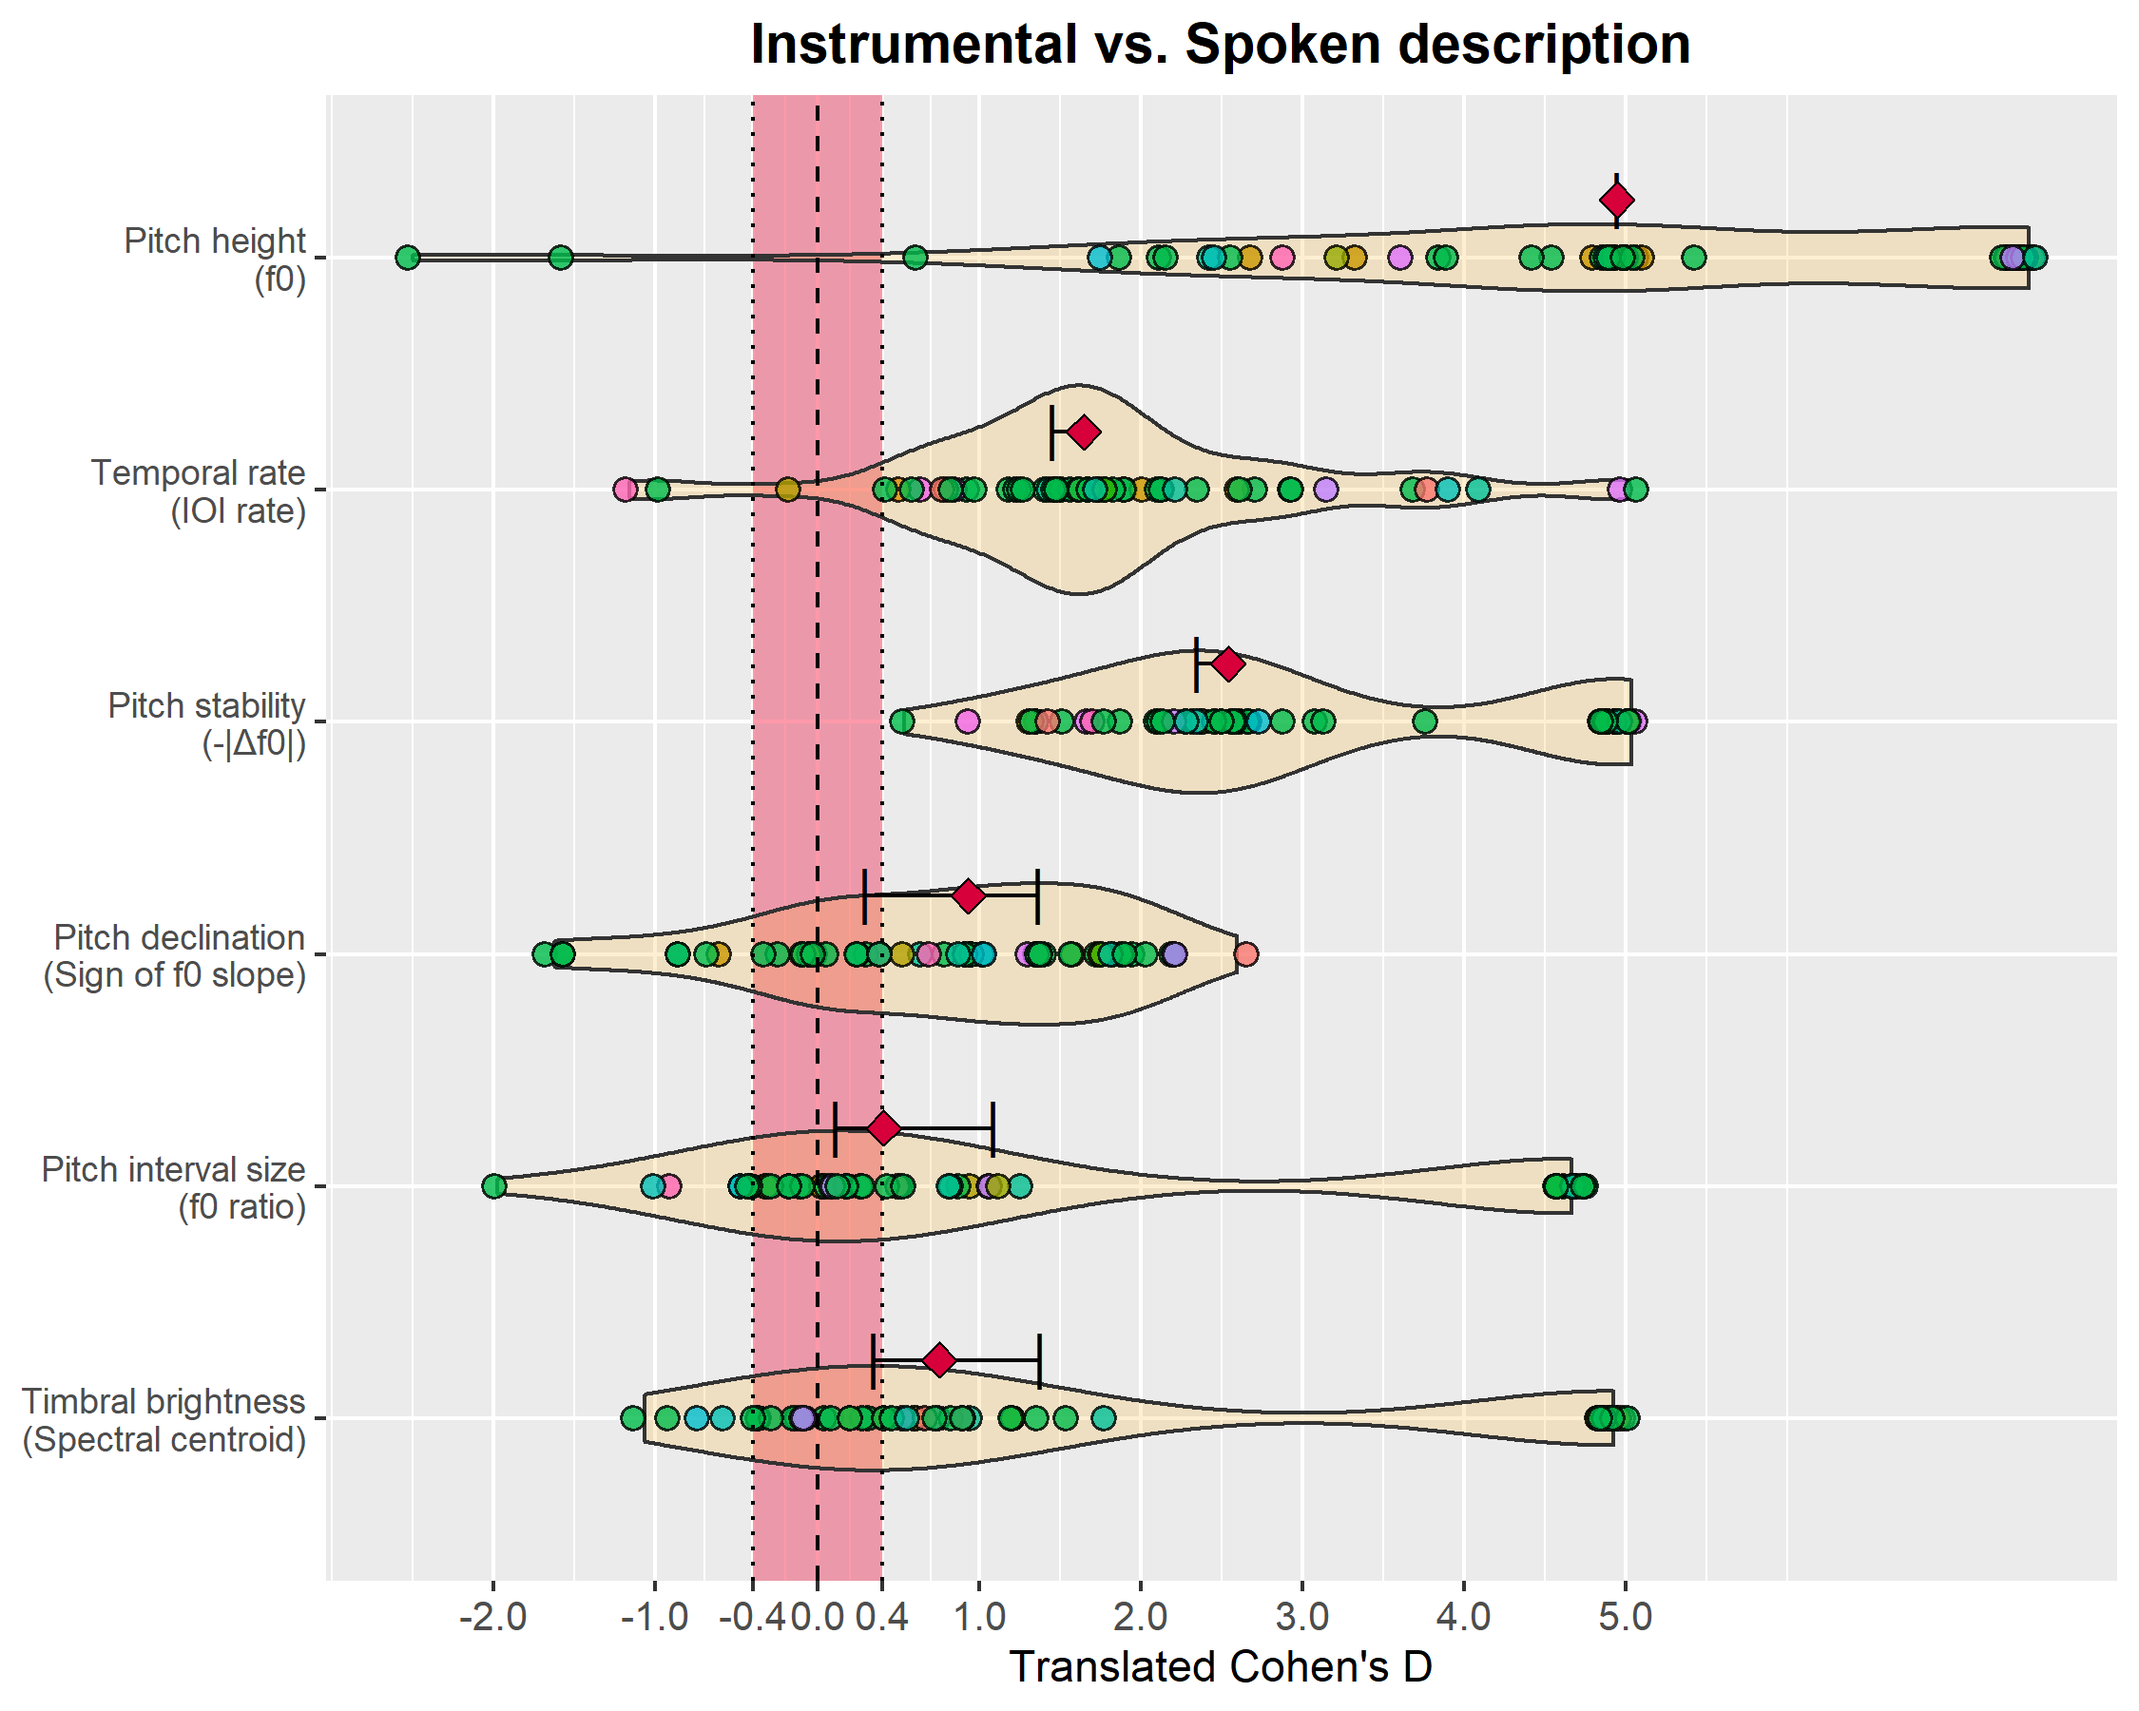
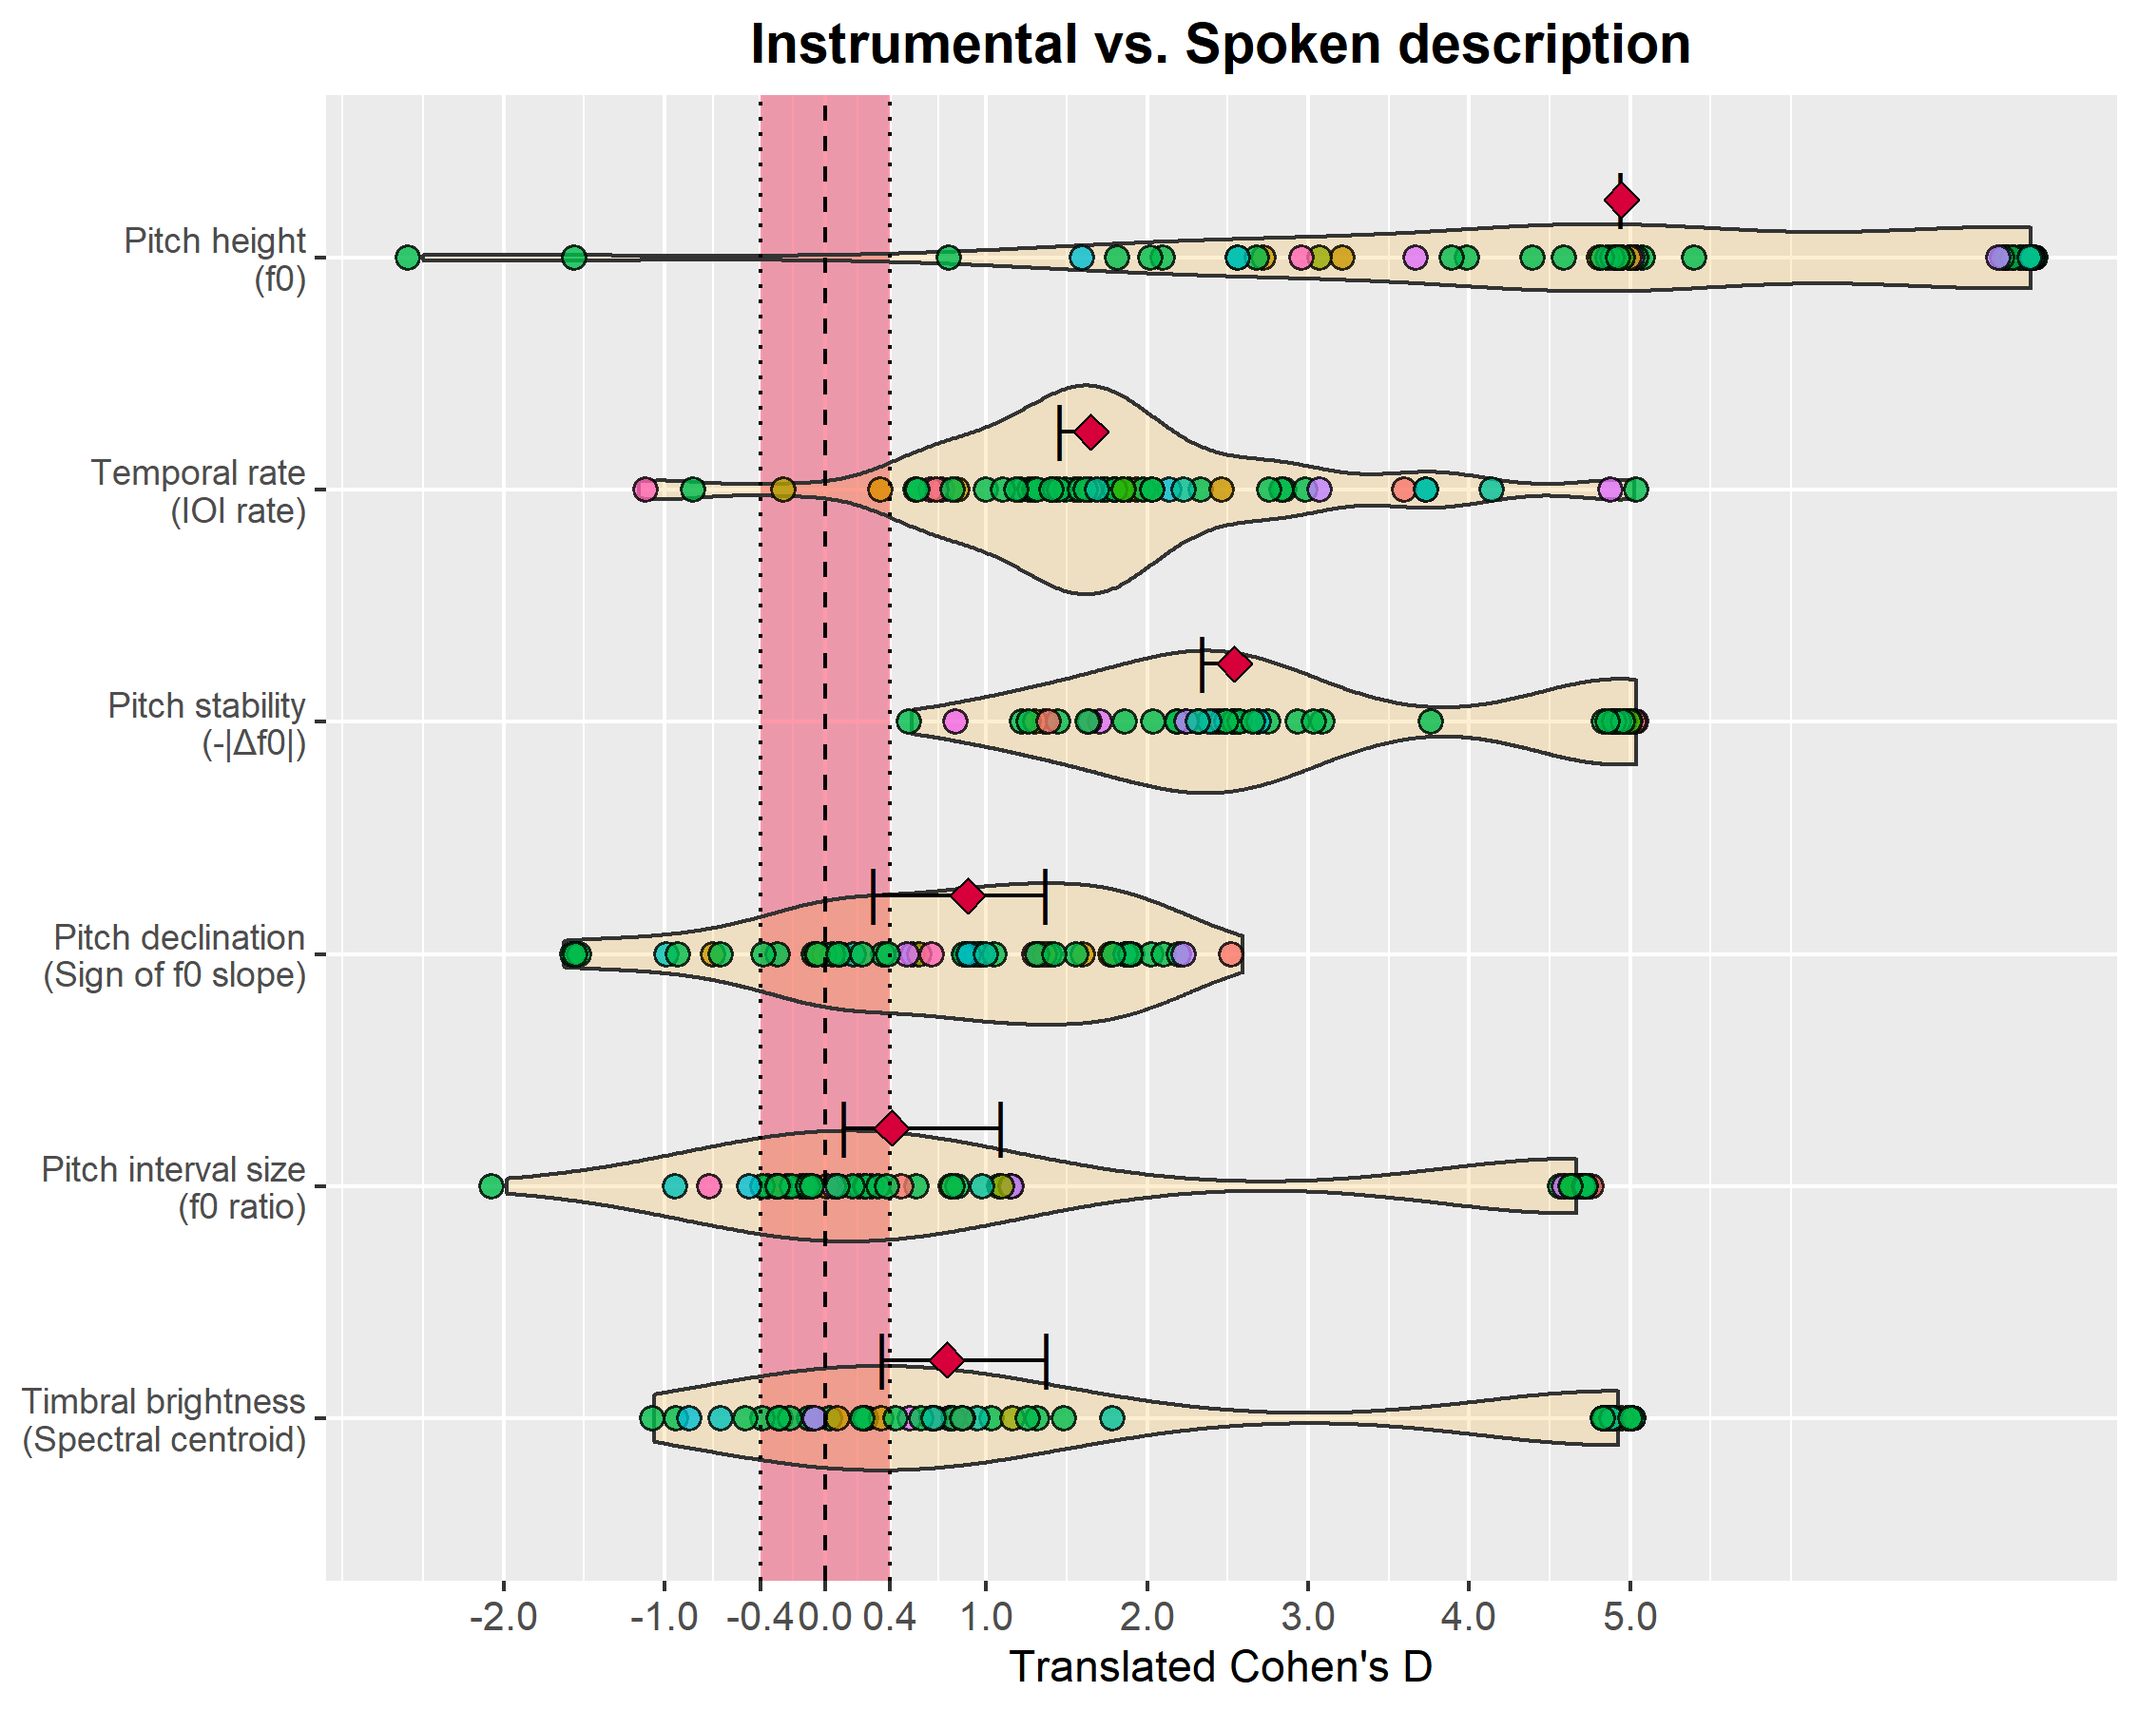
Add existing file

diff --git a/run_all.m b/run_all.m
@@ -11,32 +11,44 @@ typeid = 'song-desc';
 datainfofile = './datainfo.csv';
 al = 0.05/6;
 blindedonly = false;
+continuitycorrection = false;
 
-local_main(datainfofile, duration, typeflag_songdesc, typeid, exploratory, al, outputdir_analysis, outputdir_fig, blindedonly);
 analysis_rawdatastat(datainfofile, outputdir_analysis, duration);
+local_main(datainfofile, duration, typeflag_songdesc, typeid, exploratory, al, outputdir_analysis, outputdir_fig, blindedonly, continuitycorrection);
+
+%% Exploratory - zero cell correction
+outputdir_analysis = './output/analysis/Stage2/continuity/';
+continuitycorrection = true;
+
+local_main(datainfofile, duration, typeflag_songdesc, typeid, exploratory, al, outputdir_analysis, outputdir_fig, blindedonly, continuitycorrection);
 
 %% Exploratory - other combinations
+outputdir_analysis = './output/analysis/Stage2/';
+continuitycorrection = false;
+
 typeflag_instdesc = 2;
 typeid = 'inst-desc';
-local_main(datainfofile, duration, typeflag_instdesc, typeid, exploratory, al, outputdir_analysis, outputdir_fig, blindedonly);
+local_main(datainfofile, duration, typeflag_instdesc, typeid, exploratory, al, outputdir_analysis, outputdir_fig, blindedonly, continuitycorrection);
 
 typeflag_songrect = 3;
 typeid = 'song-recit';
-local_main(datainfofile, duration, typeflag_songrect, typeid, exploratory, al, outputdir_analysis, outputdir_fig, blindedonly);
+local_main(datainfofile, duration, typeflag_songrect, typeid, exploratory, al, outputdir_analysis, outputdir_fig, blindedonly, continuitycorrection);
 
 %% Exploratory - 30 seconds
 typeflag_songdesc = 1;
 typeid = 'song-desc';
 duration = 30;
-local_main(datainfofile, duration, typeflag_songdesc, typeid, exploratory, al, outputdir_analysis, outputdir_fig, blindedonly);
+local_main(datainfofile, duration, typeflag_songdesc, typeid, exploratory, al, outputdir_analysis, outputdir_fig, blindedonly, continuitycorrection);
+analysis_rawdatastat(datainfofile, outputdir_analysis, duration);
 
 %% Robustness check - hypothesis blinding
+continuitycorrection = false;
 outputdir_analysis = './output/analysis/Stage2/blinding/';
 duration = 20;
 blindedonly = true;
-local_main(datainfofile, duration, typeflag_songdesc, typeid, exploratory, al, outputdir_analysis, outputdir_fig, blindedonly);
+local_main(datainfofile, duration, typeflag_songdesc, typeid, exploratory, al, outputdir_analysis, outputdir_fig, blindedonly, continuitycorrection);
 
-function local_main(datainfofile, duration, typeflag, typeid, exploratory, al, outputdir_analysis, outputdir_fig, blindedonly)
+function local_main(datainfofile, duration, typeflag, typeid, exploratory, al, outputdir_analysis, outputdir_fig, blindedonly, continuitycorrection)
     if not(isfolder(outputdir_analysis))
         mkdir(outputdir_analysis)
     end
@@ -46,7 +58,7 @@ function local_main(datainfofile, duration, typeflag, typeid, exploratory, al, o
     end
 
     analysis_featureES_1(datainfofile, duration, typeflag, exploratory, outputdir_analysis, blindedonly);
-    analysis_featureES_2(datainfofile, duration, typeflag, exploratory, outputdir_analysis, blindedonly);
+    analysis_featureES_2(datainfofile, duration, typeflag, exploratory, outputdir_analysis, blindedonly, continuitycorrection);
 
     esinfofile = strcat(outputdir_analysis, 'results_effectsize_acoustic_', typeid, '_', num2str(duration), 'sec.csv');
     outputfile = strcat(outputdir_analysis, 'ma_acoustic_', typeid, '_', num2str(duration), 'sec.csv');

diff --git a/analysis_featureES_2.m b/analysis_featureES_2.m
@@ -1,4 +1,4 @@
-function analysis_featureES_2(datainfofile, duration, typeflag, exploratory, outputdir, blindonly)
+function analysis_featureES_2(datainfofile, duration, typeflag, exploratory, outputdir, blindonly, continuitycorrection)
     switch typeflag
         case 1
             typelist = {'song', 'desc'};
@@ -134,8 +134,26 @@ function analysis_featureES_2(datainfofile, duration, typeflag, exploratory, out
         Y = pitchdeclination{idx_desc};
         if ~(numel(X) == 1 && numel(Y) == 1 && isnan(X) && isnan(Y))
             if numel(unique([X; Y])) == 1
-                d = 0.5;
-                [~, tau, dof] = pb_effectsize([X; -1; 1], [Y; -1; 1]);
+                if continuitycorrection
+                    d = 0.5;
+                    [~, tau, dof] = pb_effectsize([X; -1; 1], [Y; -1; 1]);
+                else
+                    d = 0.5;
+                    unobserved = setdiff([1, -1], unique([X; Y]));
+                    Z = X;
+                    Z(1) = unobserved;
+                    [~, tau_X, dof_X] = pb_effectsize(Z, Y);
+                    Z = Y;
+                    Z(1) = unobserved;
+                    [~, tau_Y, dof_Y] = pb_effectsize(X, Z);
+                    if tau_X < tau_Y
+                        tau = tau_X;
+                        dof = dof_X;
+                    else
+                        tau = tau_Y;
+                        dof = dof_Y;
+                    end
+                end
             else
                 [d, tau, dof] = pb_effectsize(X, Y);
             end
